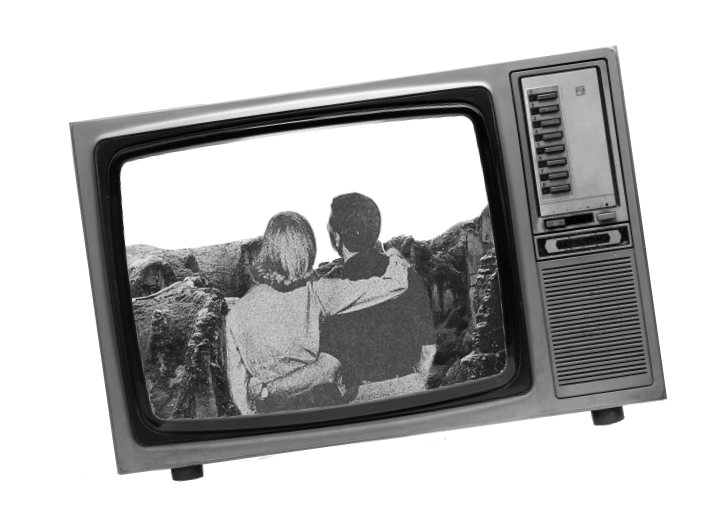
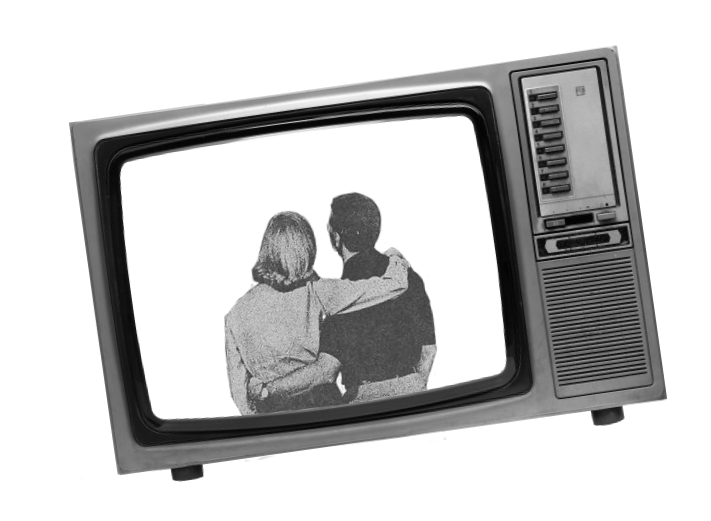
[CSS] adapt c3p3 anim

diff --git a/src/scenes/chapter3/c3p3/index.jsx b/src/scenes/chapter3/c3p3/index.jsx
@@ -1,8 +1,9 @@
-import React, {useEffect, useState} from "react";
+import React, { useEffect, useState } from "react";
 
 import bg from "../../../assets/bgC3P3.jpg";
 import nuclearWaste from "../../../assets/nuclear_waste.png";
 import tv from "../../../assets/tv.png";
+import nature from "../../../assets/nature.png";
 
 import Infos from "../../../components/molecules/Infos";
 
@@ -13,12 +14,16 @@ const Chapter3Part3 = () => {
 
     const [nuclearAnim, setNuclearAnim] = useState();
     const [nuclearIsHover, setNuclearIsHover] = useState(false);
-    const [tvAnim, setTvAnim] = useState();
+    const [tvAnim, setTvAnim] = useState({});
     const [tvIsHover, setTvIsHover] = useState(false);
 
-    useEffect(()=> {
-        setNuclearAnim(gsap.to(".nuclearWaste", {y: "-60vh", filter: "grayscale(0)", paused: true}))
-        setTvAnim(gsap.to(".bgC3P3", {filter: "grayscale(0)", paused: true}))
+    useEffect(() => {
+        setNuclearAnim(gsap.to(".nuclearWaste", { y: "-60vh", filter: "grayscale(0)", paused: true }))
+        setTvAnim({
+            bgAnim: gsap.to(".bgC3P3", { filter: "grayscale(0)", duration: 0.4, paused: true }),
+            natureAnim: gsap.to('.nature', { filter: "grayscale(0)", y: -40, delay: 1, paused: true }),
+            tvAnim: gsap.to('.tvContainer', { y: -200, x: -100, scale: 1.1, paused: true })
+        })
     }, [])
 
     const NuclearHover = () => {
@@ -32,9 +37,13 @@ const Chapter3Part3 = () => {
 
     const TvHover = () => {
         if (tvIsHover) {
-            tvAnim.reverse();
+            for (const key in tvAnim) {
+                eval(`tvAnim.${key}.reverse()`);
+            }
         } else {
-            tvAnim.play();
+            for (const key in tvAnim) {
+                eval(`tvAnim.${key}.play()`);
+            }
         }
         setTvIsHover(!tvIsHover);
     };
@@ -42,8 +51,13 @@ const Chapter3Part3 = () => {
     return (<>
         <div className="chapter-container">
             <img src={bg} alt="" className="bg bgC3P3" />
-            <img src={nuclearWaste} alt="" className="nuclearWaste"/>
-            <img src={tv} alt="" className="tv"/>
+            <img src={nuclearWaste} alt="" className="nuclearWaste" />
+            <div className="tvContainer">
+                <div className="relative">
+                    <img src={nature} alt="" className="nature" />
+                    <img src={tv} alt="" className="tv" />
+                </div>
+            </div>
 
             <Infos
                 setIsAnimated={NuclearHover}

diff --git a/src/scenes/chapter3/c3p3/c3p3.scss b/src/scenes/chapter3/c3p3/c3p3.scss
@@ -7,12 +7,26 @@
     width: 100vw;
     bottom: -33vw;
     filter: grayscale(1);
-    z-index: 10;
+    z-index: 11;
 }
 
-.tv {
+.tvContainer {
     position: absolute;
-    bottom: 131px;
-    left: 50%;
-    transform: translateX(-50%);
+    left: 34%;
+    transform: translateX(-50%) scale(0.8);
+    bottom: 524px;
+    z-index: 10;
+    
+    .tv {
+        position: absolute;
+        filter: grayscale(1);
+    }
+
+    .nature {
+        position: absolute;
+        top: 127px;
+        left: 69px;
+        transform: scale(0.9);
+        filter: grayscale(1);
+    }
 }

diff --git a/src/index.scss b/src/index.scss
@@ -53,6 +53,10 @@ body {
     position: relative;
 }
 
+.relative {
+  position: relative;
+}
+
 // code {
 //   font-family: source-code-pro, Menlo, Monaco, Consolas, "Courier New",
 //     monospace;
